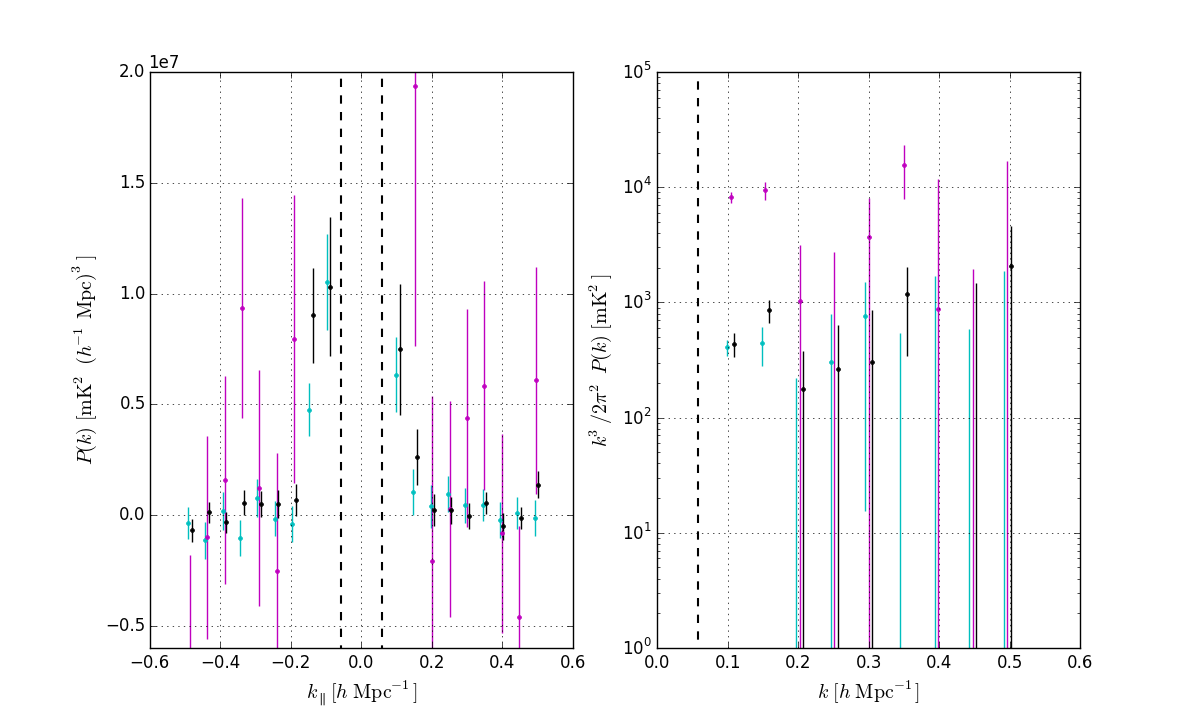
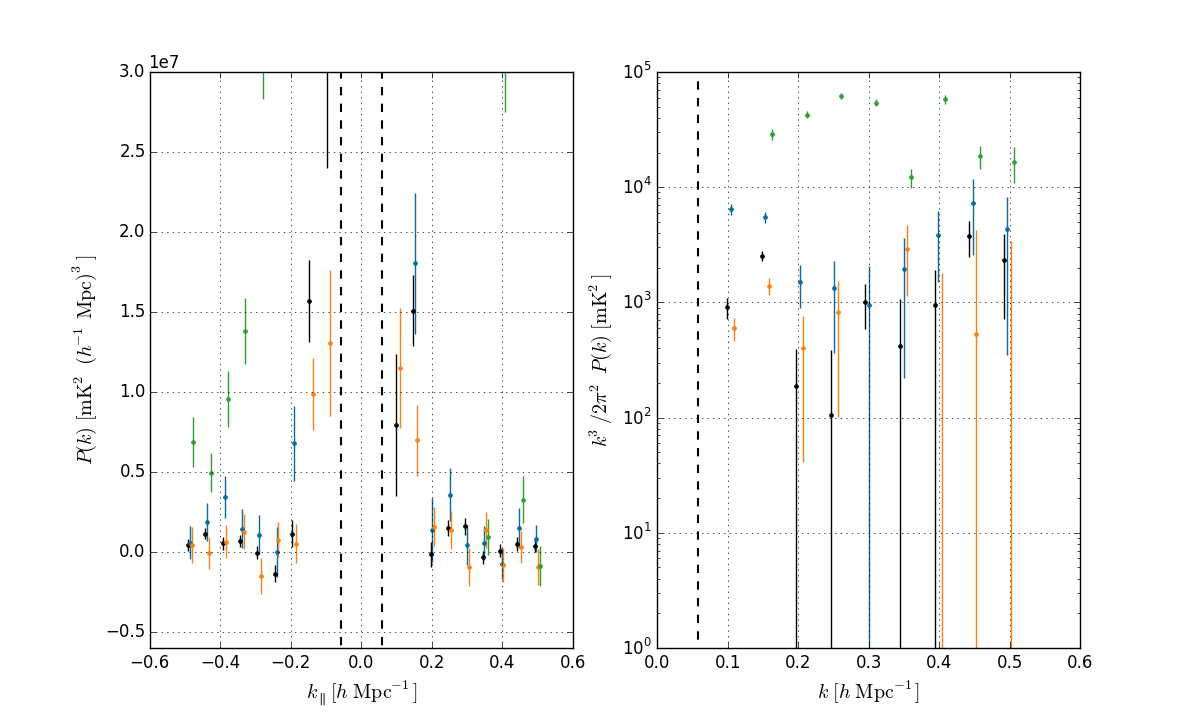
add in plotter for multi pspec and image.

diff --git a/plots/plot_pk_k3pk_multi.py b/plots/plot_pk_k3pk_multi.py
@@ -21,7 +21,8 @@ o.add_option('--show', action='store_true',
 opts,args = o.parse_args(sys.argv[1:])
 print args
 
-args = glob.glob('data/final_pspecs/v03*/pspec.npz')
+#args = glob.glob('data/final_pspecs/v03*/pspec.npz')
+args = glob.glob('data/final_pspecs/v05*/pspec.npz')
 
 ERRORS = {}
 
@@ -41,7 +42,7 @@ def dual_plot(kpl, pk, err, pkfold=None, errfold=None, umag=16, f0=.164, color='
     pk = pk.real #power spectrum is real, so discard the imaginary part.
     p.subplot(121)
     #plot pk with the error bars!
-    ebp = p.errorbar(kpl+offset, pk, yerr=err, fmt=color+'.', capsize=0)#, alpha=.5)
+    ebp = p.errorbar(kpl+offset, pk, yerr=err, fmt='.', color=color,capsize=0)#, alpha=.5)
     ebp[-1][0].set_linestyle(ls)
 
     #for folded power spectrum
@@ -60,7 +61,7 @@ def dual_plot(kpl, pk, err, pkfold=None, errfold=None, umag=16, f0=.164, color='
         pkfold = pkfold.real
         
     #plot folded power spectra
-    ebd = p.errorbar(k[k0:]+offset, k3[k0:]*pkfold, yerr=k3[k0:]*errfold, fmt=color+'.', capsize=0)
+    ebd = p.errorbar(k[k0:]+offset, k3[k0:]*pkfold, yerr=k3[k0:]*errfold, fmt='.', color=color, capsize=0)
     ebd[-1][0].set_linestyle(ls)
     if not bins is None:
         _kpls, _k3pks, _k3errs = [], [], []
@@ -126,9 +127,10 @@ RS_VS_KPL_FOLD = {} #K^2
 powerspec, powerspecwgt = {}, {}
 powerspec_fold, powerspecwgt_fold = {}, {}
 
-colors = 'cmk'
+#black, blue, orange, green, dark grey
+colors = [(0.,0.,0.),  (0, 107/255., 164/255.), (1,128/255.,14/255.), (44/255.,160/255.,44/255.), (89/255.,89/255.,89/255.)]
 #lss = ['-','--','-.',':']
-lss = ['-','-','-',':']
+lss = ['-','-','-','-']
 for filename in args:
     print 'Reading', filename
     f = n.load(filename)
@@ -206,9 +208,9 @@ for cnt,filename in enumerate(args):
         nos_fold *= f
     #if True: # For aggressive fringe-rate filtering, change beam area
     if True: # For aggressive fringe-rate filtering, change beam area
-        if 'v031' in filename: pass
+        if 'v051' in filename: pass
         #f = opts.afrf_factor
-        f = 1.90 # ratio of power**2 beams for filtered * unfiltered beams: 0.306 / 0.162
+        f = 1.39 # ratio of power**2 beams for filtered * unfiltered beams: 0.306 / 0.162
         print 'Scaling data and noise by %f for beam constriction in aggressive fringe-rate filtering' % f
         d *= f
         nos *= f
@@ -256,7 +258,8 @@ for cnt,filename in enumerate(args):
     
     if d_fold.size==0: d_fold,nos_fold=None,None
     dual_plot(kpl, d, 2*nos, d_fold, 2*nos_fold, color=colors[0], ls=lss[0], bins=None, f0=freq, offset=.005*cnt)
-    colors = colors[1:] + colors[0]
+    colors = colors[1:]+colors[:1]
+    print colors
     lss = lss[1:] + lss[:1]
 
 
@@ -274,7 +277,7 @@ p.vlines(-k_h, -1e7, 1e10, linestyles='--', linewidth=1.5)
 #p.gca().set_yscale('log', nonposy='clip')
 p.xlabel(r'$k_\parallel\ [h\ {\rm Mpc}^{-1}]$', fontsize='large')
 p.ylabel(r'$P(k)\ [{\rm mK}^2\ (h^{-1}\ {\rm Mpc})^3]$', fontsize='large')
-p.ylim(-.6e7,2e7)
+p.ylim(-.6e7,3e7)
 p.grid()
 
 
